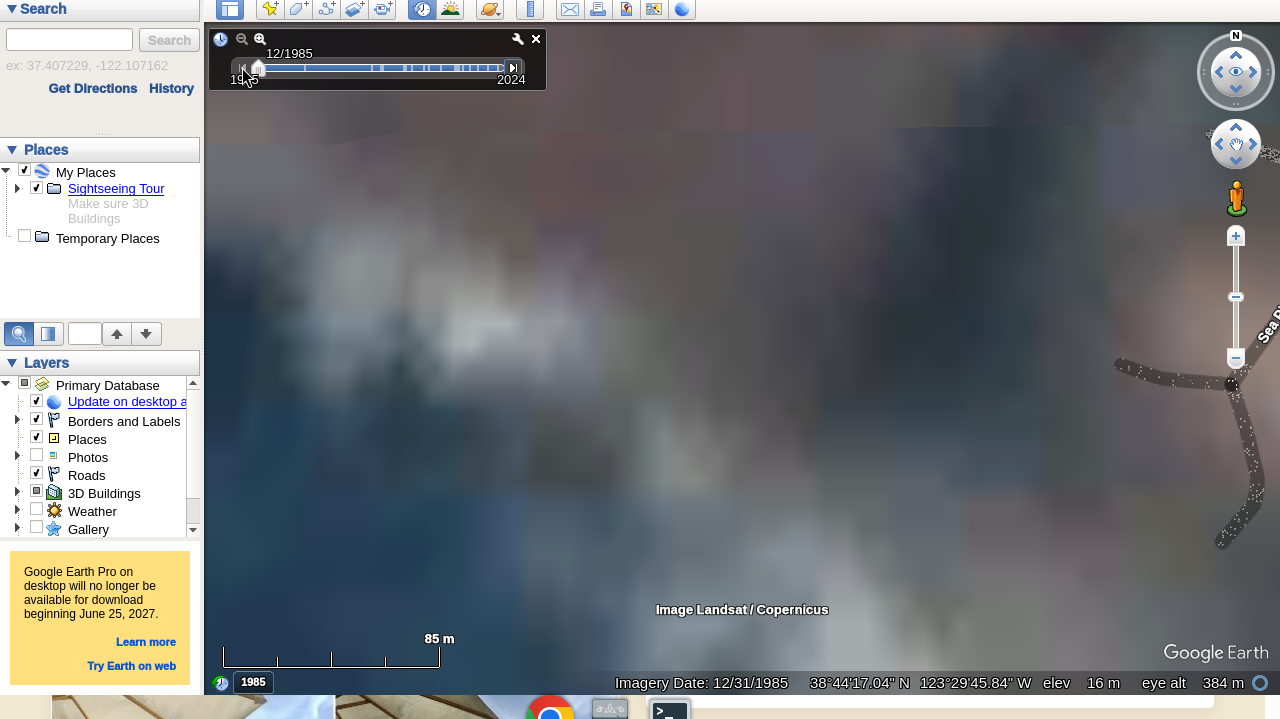
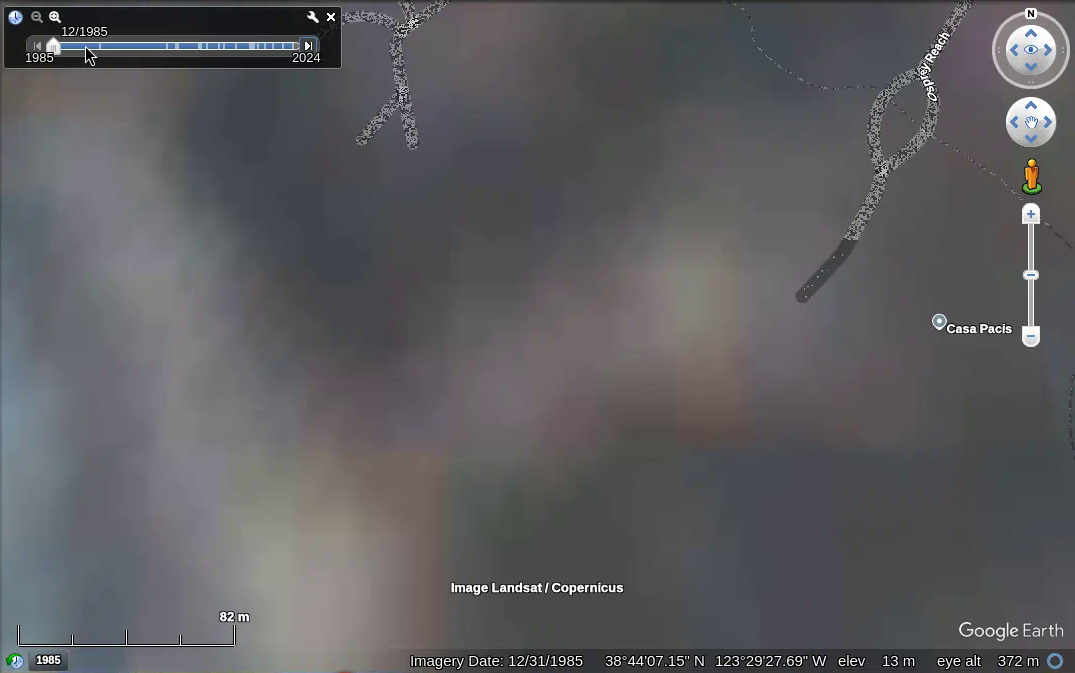
Replace Walk-On Beach frames with 105 Osprey Reach Earth Pro history
Swap the GitHub Pages root for 105 Osprey Reach (The Sea Ranch) historical
imagery: 15 cropped Earth Pro stills, year-compare GIF, and updated index.

diff --git a/index.html b/index.html
@@ -3,8 +3,8 @@
 <head>
   <meta charset="utf-8" />
   <meta name="viewport" content="width=device-width, initial-scale=1" />
-  <title>Walk-On Beach — bluff &amp; access over time</title>
-  <meta name="description" content="Vertical Google Earth Pro historical imagery of the Walk-On Beach Coastal Access at The Sea Ranch, CA — bluff edge, beach stairs/cove, and shoreline over time." />
+  <title>105 Osprey Reach — house, bluff &amp; beach over time</title>
+  <meta name="description" content="Vertical Google Earth Pro historical imagery of 105 Osprey Reach, The Sea Ranch, CA — house lot near the coastal bluff, beach, and access paths over time." />
   <style>
     :root {
       --bg: #f4f1ea;
@@ -198,11 +198,11 @@
 </head>
 <body>
   <header>
-    <h1>Walk-On Beach — bluff &amp; access over time</h1>
-    <p class="sub">Vertical Google Earth Pro historical imagery of the Walk-On Beach Coastal Access at The Sea Ranch, CA (trailhead 40101 Highway 1). Framing is the bluff edge, beach stairs/cove, and shoreline west of the parking lot — not the lot itself.</p>
+    <h1>105 Osprey Reach — house, bluff &amp; beach over time</h1>
+    <p class="sub">Vertical Google Earth Pro historical imagery of 105 Osprey Reach, The Sea Ranch, CA 95497. The house sits inland on the coastal terrace — near the bluff and beach, not on the sand. Framing includes the house, bluff edge, beach, and access paths.</p>
     <div class="meta">
-      <span><strong>View</strong> top-down · eye alt 384&nbsp;m</span>
-      <span><strong>Scale</strong> 85&nbsp;m bar</span>
+      <span><strong>View</strong> top-down · eye alt ~372&nbsp;m</span>
+      <span><strong>Scale</strong> ~82&nbsp;m bar</span>
       <span><strong>Source</strong> Google Earth Pro Historical Imagery</span>
     </div>
   </header>
@@ -214,16 +214,12 @@
       <li><a href="#y1985">1985</a></li>
       <li><a href="#y1993">1993</a></li>
       <li><a href="#y2004">2004</a></li>
-      <li><a href="#y2005a">Jan 2005</a></li>
-      <li><a href="#y2005b">Jun 2005</a></li>
-      <li><a href="#y2009a">May 2009</a></li>
-      <li><a href="#y2009b">Aug 2009</a></li>
+      <li><a href="#y2005">2005</a></li>
       <li><a href="#y2010">2010</a></li>
       <li><a href="#y2012">2012</a></li>
       <li><a href="#y2013">2013</a></li>
       <li><a href="#y2015">2015</a></li>
-      <li><a href="#y2017a">Jun 2017</a></li>
-      <li><a href="#y2017b">Oct 2017</a></li>
+      <li><a href="#y2017">2017</a></li>
       <li><a href="#y2018a">Feb 2018</a></li>
       <li><a href="#y2018b">Sep 2018</a></li>
       <li><a href="#y2019">2019</a></li>
@@ -237,9 +233,9 @@
     <section class="panel" id="compare">
       <div class="panel-head">
         <h2>Year-to-year flip</h2>
-        <p>Loops all 19 frames (1985 → 2024), so the bluff edge, access cove, and shoreline line up in the same crop. Watch the cove at the trail branch and the apron at the foot of the bluff.</p>
+        <p>Loops all 15 frames (1985 → 2024) in the same crop so the house, bluff edge, beach, and access paths line up. Watch how the lot and shoreline read year to year.</p>
       </div>
-      <img class="compare-gif" src="images/year-compare.gif" alt="Animated comparison of Walk-On Beach aerial imagery cycling through 1985–2024" width="800" height="551" />
+      <img class="compare-gif" src="images/year-compare.gif" alt="Animated comparison of 105 Osprey Reach aerial imagery cycling through 1985–2024" width="800" height="551" />
     </section>
 
     <section class="panel" id="takeaways">
@@ -248,13 +244,15 @@
         <p>Not a survey — a plain-language look at these frames only.</p>
       </div>
       <div class="takeaways">
-        <p class="verdict">Sonoma County currently lists the Walk-On Beach stair access as closed due to a landslide; bluff walking north from parking may still be possible.</p>
+        <p class="verdict">A private house lot on the coastal terrace, set back from the bluff — these tiles are useful for comparing the house footprint, paths, and beach/bluff edge over time, not for hazard conclusions.</p>
         <ul>
-          <li>These frames show the access cove/bluff over ~1985–2024 for visual comparison only.</li>
-          <li>Note apparent shoreline/bluff changes especially comparing ~2022 vs 2024 (debris apron vs more exposed rock) — tide/season/sensor can also change appearance.</li>
-          <li>In the Oct 2022 tile the cove shows a broader gray debris/beach apron; the May 2024 tile shows a rockier, more stripped-looking shoreline at the same cove.</li>
+          <li><strong>1985</strong> is an early black-and-white / low-resolution tile. Structures and the bluff edge are hard to read at this zoom; treat it as a coarse baseline, not a detailed site plan.</li>
+          <li>By the mid-2000s color frames (e.g. <strong>2004–2005</strong>), the dark multi-gabled roof of the house is clear, inland from the bluff with a driveway toward the Osprey Reach cul-de-sac and light paths through the coastal grass/scrub.</li>
+          <li>Across <strong>2012–2024</strong>, the same general layout holds: house on the terrace, walking paths toward and along the bluff, sandy beach and surf to the west. Neighbor roofs and the road loop stay useful fixed references.</li>
+          <li>Beach width, foam, and how “rocky” vs sandy the shore looks change a lot tile to tile — tide, season, and sensor matter as much as any real shoreline move at this resolution.</li>
+          <li>Nothing in these frames jumps out as a dramatic, sudden bluff failure into the building footprint. Small year-to-year edge changes would be easy to miss (or over-read) here.</li>
         </ul>
-        <p class="caveat">Not geologic advice; County / geotech is authority on closure and hazard. This is a desk read of satellite/aerial tiles only.</p>
+        <p class="caveat">Desk read of Google Earth Pro historical tiles only — not geologic, survey, or insurance advice. Tide, season, vegetation, and imagery source can change appearance without a real ground change.</p>
       </div>
     </section>
 
@@ -263,9 +261,9 @@
         <h2>December 31, 1985</h2>
         <span class="date">Earliest timeline tile</span>
       </div>
-      <p class="note">USGS black-and-white frame — earliest available at this framing.</p>
+      <p class="note">Early black-and-white / low-res frame — coarsest look at this spot.</p>
       <a class="img-wrap" href="images/01-1985-12-31.png" target="_blank" rel="noopener">
-        <img src="images/01-1985-12-31.png" alt="Walk-On Beach aerial, December 31 1985, vertical with 85 meter scale" loading="eager" />
+        <img src="images/01-1985-12-31.png" alt="105 Osprey Reach aerial, December 31 1985, vertical with 82 meter scale" loading="eager" />
       </a>
     </article>
 
@@ -275,7 +273,7 @@
         <span class="date">Early color era</span>
       </div>
       <a class="img-wrap" href="images/02-1993-07-12.png" target="_blank" rel="noopener">
-        <img src="images/02-1993-07-12.png" alt="Walk-On Beach aerial, July 12 1993, vertical with 85 meter scale" loading="lazy" />
+        <img src="images/02-1993-07-12.png" alt="105 Osprey Reach aerial, July 12 1993, vertical with 82 meter scale" loading="lazy" />
       </a>
     </article>
 
@@ -284,48 +282,19 @@
         <h2>March 11, 2004</h2>
         <span class="date">Color imagery</span>
       </div>
+      <p class="note">House footprint readable; bluff edge and beach in frame.</p>
       <a class="img-wrap" href="images/03-2004-03-11.png" target="_blank" rel="noopener">
-        <img src="images/03-2004-03-11.png" alt="Walk-On Beach aerial, March 11 2004, vertical with 85 meter scale" loading="lazy" />
+        <img src="images/03-2004-03-11.png" alt="105 Osprey Reach aerial, March 11 2004, vertical with 82 meter scale" loading="lazy" />
       </a>
     </article>
 
-    <article class="frame" id="y2005a">
+    <article class="frame" id="y2005">
       <div class="label">
         <h2>January 1, 2005</h2>
-        <span class="date">Same-year pair</span>
+        <span class="date">Timeline tile</span>
       </div>
       <a class="img-wrap" href="images/04-2005-01-01.png" target="_blank" rel="noopener">
-        <img src="images/04-2005-01-01.png" alt="Walk-On Beach aerial, January 1 2005, vertical with 85 meter scale" loading="lazy" />
-      </a>
-    </article>
-
-    <article class="frame" id="y2005b">
-      <div class="label">
-        <h2>June 12, 2005</h2>
-        <span class="date">Same-year pair</span>
-      </div>
-      <a class="img-wrap" href="images/05-2005-06-12.png" target="_blank" rel="noopener">
-        <img src="images/05-2005-06-12.png" alt="Walk-On Beach aerial, June 12 2005, vertical with 85 meter scale" loading="lazy" />
-      </a>
-    </article>
-
-    <article class="frame" id="y2009a">
-      <div class="label">
-        <h2>May 25, 2009</h2>
-        <span class="date">Same-year pair</span>
-      </div>
-      <a class="img-wrap" href="images/06-2009-05-25.png" target="_blank" rel="noopener">
-        <img src="images/06-2009-05-25.png" alt="Walk-On Beach aerial, May 25 2009, vertical with 85 meter scale" loading="lazy" />
-      </a>
-    </article>
-
-    <article class="frame" id="y2009b">
-      <div class="label">
-        <h2>August 16, 2009</h2>
-        <span class="date">Same-year pair</span>
-      </div>
-      <a class="img-wrap" href="images/07-2009-08-16.png" target="_blank" rel="noopener">
-        <img src="images/07-2009-08-16.png" alt="Walk-On Beach aerial, August 16 2009, vertical with 85 meter scale" loading="lazy" />
+        <img src="images/04-2005-01-01.png" alt="105 Osprey Reach aerial, January 1 2005, vertical with 82 meter scale" loading="lazy" />
       </a>
     </article>
 
@@ -334,8 +303,8 @@
         <h2>April 25, 2010</h2>
         <span class="date">Timeline tile</span>
       </div>
-      <a class="img-wrap" href="images/08-2010-04-25.png" target="_blank" rel="noopener">
-        <img src="images/08-2010-04-25.png" alt="Walk-On Beach aerial, April 25 2010, vertical with 85 meter scale" loading="lazy" />
+      <a class="img-wrap" href="images/05-2010-04-25.png" target="_blank" rel="noopener">
+        <img src="images/05-2010-04-25.png" alt="105 Osprey Reach aerial, April 25 2010, vertical with 82 meter scale" loading="lazy" />
       </a>
     </article>
 
@@ -344,8 +313,8 @@
         <h2>July 13, 2012</h2>
         <span class="date">Timeline tile</span>
       </div>
-      <a class="img-wrap" href="images/09-2012-07-13.png" target="_blank" rel="noopener">
-        <img src="images/09-2012-07-13.png" alt="Walk-On Beach aerial, July 13 2012, vertical with 85 meter scale" loading="lazy" />
+      <a class="img-wrap" href="images/06-2012-07-13.png" target="_blank" rel="noopener">
+        <img src="images/06-2012-07-13.png" alt="105 Osprey Reach aerial, July 13 2012, vertical with 82 meter scale" loading="lazy" />
       </a>
     </article>
 
@@ -354,8 +323,8 @@
         <h2>April 21, 2013</h2>
         <span class="date">Timeline tile</span>
       </div>
-      <a class="img-wrap" href="images/10-2013-04-21.png" target="_blank" rel="noopener">
-        <img src="images/10-2013-04-21.png" alt="Walk-On Beach aerial, April 21 2013, vertical with 85 meter scale" loading="lazy" />
+      <a class="img-wrap" href="images/07-2013-04-21.png" target="_blank" rel="noopener">
+        <img src="images/07-2013-04-21.png" alt="105 Osprey Reach aerial, April 21 2013, vertical with 82 meter scale" loading="lazy" />
       </a>
     </article>
 
@@ -364,28 +333,18 @@
         <h2>March 28, 2015</h2>
         <span class="date">Timeline tile</span>
       </div>
-      <a class="img-wrap" href="images/11-2015-03-28.png" target="_blank" rel="noopener">
-        <img src="images/11-2015-03-28.png" alt="Walk-On Beach aerial, March 28 2015, vertical with 85 meter scale" loading="lazy" />
+      <a class="img-wrap" href="images/08-2015-03-28.png" target="_blank" rel="noopener">
+        <img src="images/08-2015-03-28.png" alt="105 Osprey Reach aerial, March 28 2015, vertical with 82 meter scale" loading="lazy" />
       </a>
     </article>
 
-    <article class="frame" id="y2017a">
+    <article class="frame" id="y2017">
       <div class="label">
         <h2>June 17, 2017</h2>
         <span class="date">Denser stretch</span>
       </div>
-      <a class="img-wrap" href="images/12-2017-06-17.png" target="_blank" rel="noopener">
-        <img src="images/12-2017-06-17.png" alt="Walk-On Beach aerial, June 17 2017, vertical with 85 meter scale" loading="lazy" />
-      </a>
-    </article>
-
-    <article class="frame" id="y2017b">
-      <div class="label">
-        <h2>October 31, 2017</h2>
-        <span class="date">Denser stretch</span>
-      </div>
-      <a class="img-wrap" href="images/13-2017-10-31.png" target="_blank" rel="noopener">
-        <img src="images/13-2017-10-31.png" alt="Walk-On Beach aerial, October 31 2017, vertical with 85 meter scale" loading="lazy" />
+      <a class="img-wrap" href="images/09-2017-06-17.png" target="_blank" rel="noopener">
+        <img src="images/09-2017-06-17.png" alt="105 Osprey Reach aerial, June 17 2017, vertical with 82 meter scale" loading="lazy" />
       </a>
     </article>
 
@@ -394,8 +353,8 @@
         <h2>February 15, 2018</h2>
         <span class="date">Denser stretch</span>
       </div>
-      <a class="img-wrap" href="images/14-2018-02-15.png" target="_blank" rel="noopener">
-        <img src="images/14-2018-02-15.png" alt="Walk-On Beach aerial, February 15 2018, vertical with 85 meter scale" loading="lazy" />
+      <a class="img-wrap" href="images/10-2018-02-15.png" target="_blank" rel="noopener">
+        <img src="images/10-2018-02-15.png" alt="105 Osprey Reach aerial, February 15 2018, vertical with 82 meter scale" loading="lazy" />
       </a>
     </article>
 
@@ -404,8 +363,8 @@
         <h2>September 20, 2018</h2>
         <span class="date">Denser stretch</span>
       </div>
-      <a class="img-wrap" href="images/15-2018-09-20.png" target="_blank" rel="noopener">
-        <img src="images/15-2018-09-20.png" alt="Walk-On Beach aerial, September 20 2018, vertical with 85 meter scale" loading="lazy" />
+      <a class="img-wrap" href="images/11-2018-09-20.png" target="_blank" rel="noopener">
+        <img src="images/11-2018-09-20.png" alt="105 Osprey Reach aerial, September 20 2018, vertical with 82 meter scale" loading="lazy" />
       </a>
     </article>
 
@@ -414,8 +373,8 @@
         <h2>November 24, 2019</h2>
         <span class="date">Denser stretch</span>
       </div>
-      <a class="img-wrap" href="images/16-2019-11-24.png" target="_blank" rel="noopener">
-        <img src="images/16-2019-11-24.png" alt="Walk-On Beach aerial, November 24 2019, vertical with 85 meter scale" loading="lazy" />
+      <a class="img-wrap" href="images/12-2019-11-24.png" target="_blank" rel="noopener">
+        <img src="images/12-2019-11-24.png" alt="105 Osprey Reach aerial, November 24 2019, vertical with 82 meter scale" loading="lazy" />
       </a>
     </article>
 
@@ -424,19 +383,18 @@
         <h2>February 26, 2021</h2>
         <span class="date">Timeline tile</span>
       </div>
-      <a class="img-wrap" href="images/17-2021-02-26.png" target="_blank" rel="noopener">
-        <img src="images/17-2021-02-26.png" alt="Walk-On Beach aerial, February 26 2021, vertical with 85 meter scale" loading="lazy" />
+      <a class="img-wrap" href="images/13-2021-02-26.png" target="_blank" rel="noopener">
+        <img src="images/13-2021-02-26.png" alt="105 Osprey Reach aerial, February 26 2021, vertical with 82 meter scale" loading="lazy" />
       </a>
     </article>
 
     <article class="frame" id="y2022">
       <div class="label">
         <h2>October 18, 2022</h2>
-        <span class="date">Pre-closure compare</span>
+        <span class="date">Recent compare</span>
       </div>
-      <p class="note">Broader gray debris/beach apron visible in the access cove — useful contrast with 2024.</p>
-      <a class="img-wrap" href="images/18-2022-10-18.png" target="_blank" rel="noopener">
-        <img src="images/18-2022-10-18.png" alt="Walk-On Beach aerial, October 18 2022, vertical with 85 meter scale" loading="lazy" />
+      <a class="img-wrap" href="images/14-2022-10-18.png" target="_blank" rel="noopener">
+        <img src="images/14-2022-10-18.png" alt="105 Osprey Reach aerial, October 18 2022, vertical with 82 meter scale" loading="lazy" />
       </a>
     </article>
 
@@ -445,15 +403,15 @@
         <h2>May 2, 2024</h2>
         <span class="date">Newest imagery</span>
       </div>
-      <p class="note">More exposed rocky bluff/shoreline at the same cove; newest tile on the Earth Pro timeline.</p>
-      <a class="img-wrap" href="images/19-2024-05-02.png" target="_blank" rel="noopener">
-        <img src="images/19-2024-05-02.png" alt="Walk-On Beach aerial, May 2 2024, vertical with 85 meter scale" loading="lazy" />
+      <p class="note">Newest tile on the Earth Pro timeline at this framing.</p>
+      <a class="img-wrap" href="images/15-2024-05-02.png" target="_blank" rel="noopener">
+        <img src="images/15-2024-05-02.png" alt="105 Osprey Reach aerial, May 2 2024, vertical with 82 meter scale" loading="lazy" />
       </a>
     </article>
   </main>
 
   <footer>
-    <p>Prepared for comparing the Walk-On Beach access cove and bluff edge across historical imagery. Click any still for the full-resolution PNG.</p>
+    <p>Prepared for comparing the 105 Osprey Reach house lot, coastal bluff edge, beach, and access paths across historical imagery. Click any still for the full-resolution PNG.</p>
     <p>Imagery © Google / USGS / Airbus via Google Earth Pro. Page updated Sep 25, 2026.</p>
     <p>Related: <a href="https://lennysan.github.io/solstice-bluff-history/">233 Solstice — bluff edge over time</a></p>
   </footer>

diff --git a/README.md b/README.md
@@ -1,5 +1,7 @@
-# Walk-On Beach — bluff & access over time
+# 105 Osprey Reach — Earth Pro historical imagery
+
+GitHub Pages site: vertical Google Earth Pro historical imagery of **105 Osprey Reach, The Sea Ranch, CA 95497** (house lot near coastal bluff/beach + access paths).
 
 Live: https://lennysan.github.io/walk-on-beach-bluff-history/
 
-Sibling: https://lennysan.github.io/solstice-bluff-history/
+15 frames (1985 → 2024), eye alt ~372 m, scale ~82 m.
